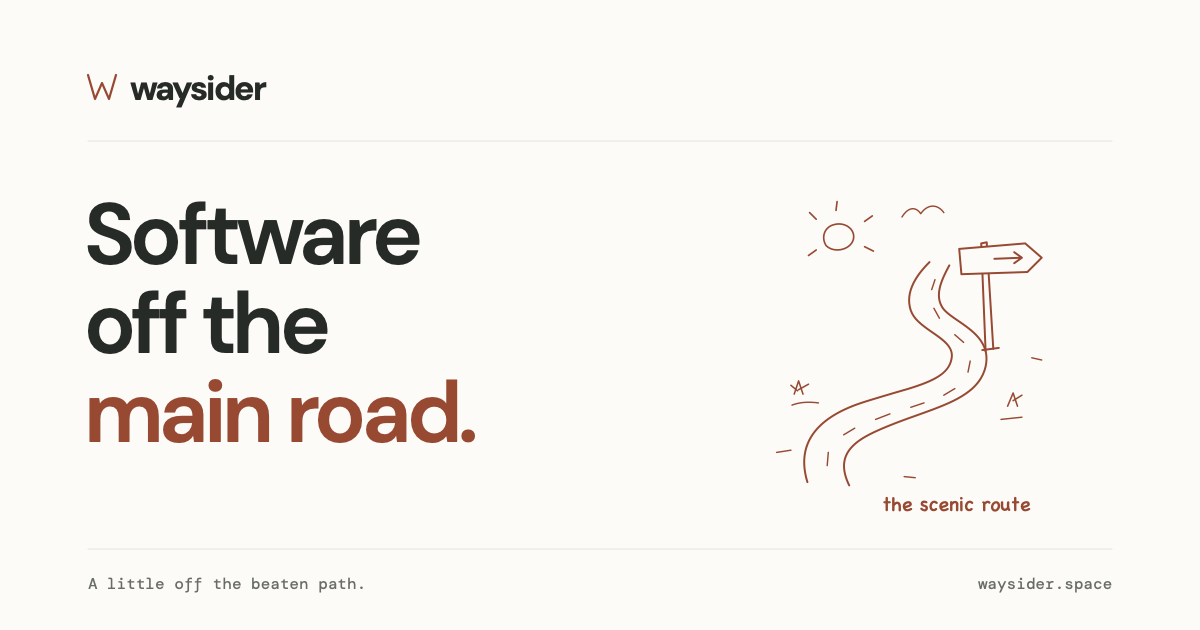
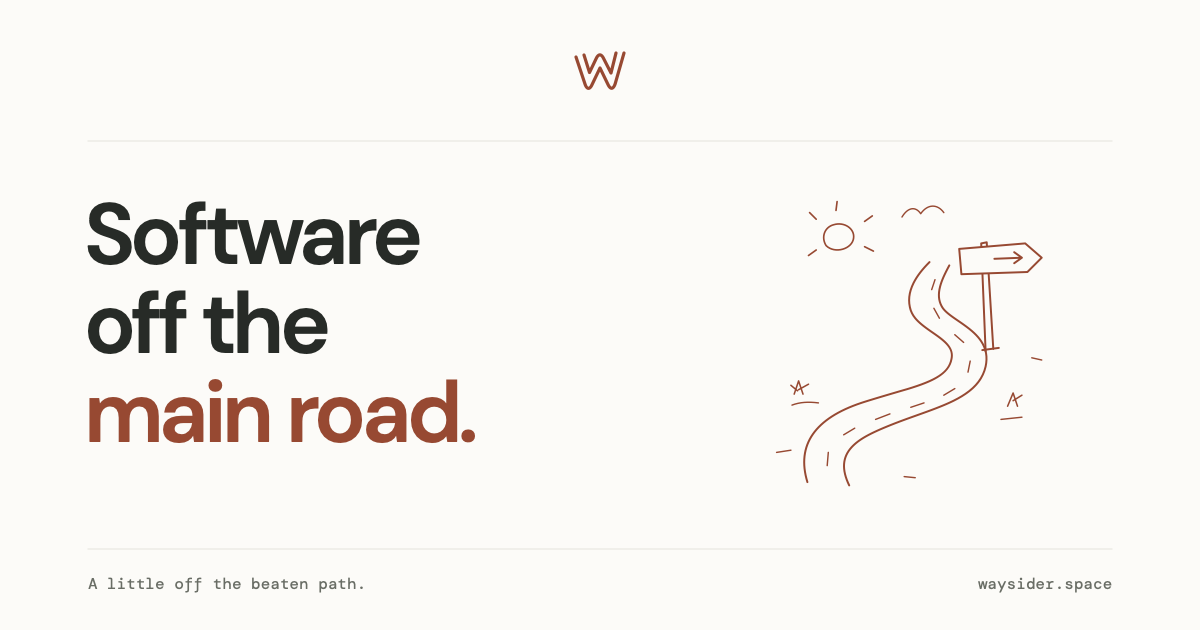
update brand mark

Changed region(s): [[0.0617, 0.1206, 0.2158, 0.181], [0.4625, 0.0603, 0.5242, 0.1508], [0.74, 0.7841, 0.8633, 0.8143]]

diff --git a/index.html b/index.html
@@ -56,20 +56,16 @@
                 min-height: 100px;
                 display: flex;
                 align-items: center;
-                justify-content: space-between;
+                justify-content: center;
                 gap: 24px;
                 border-bottom: 1px solid var(--line);
             }
             .wordmark {
                 display: inline-flex;
                 align-items: center;
-                gap: 10px;
-                font-size: 24px;
-                font-weight: 700;
-                letter-spacing: -.06em;
                 text-decoration: none;
             }
-            .brand-mark { width: 26px; height: 29px; color: var(--accent); }
+            .brand-mark { width: 48px; height: 48px; color: var(--accent); }
             .arrow { width: 15px; height: 15px; flex: none; }
 
             .hero {
@@ -128,7 +124,6 @@
             }
             @media (max-width: 420px) {
                 .page { width: calc(100% - 40px); }
-                .wordmark { font-size: 22px; }
                 .project { grid-template-columns: 1fr; position: relative; padding: 25px; }
                 .project-copy { position: relative; z-index: 1; }
                 .garden-doodle { position: absolute; width: 61px; height: 80px; right: 23px; top: 9px; }
@@ -144,10 +139,13 @@
         <div class="page">
             <header class="site-header">
                 <a class="wordmark" href="/" aria-label="Waysider home">
-                    <svg class="brand-mark" viewBox="0 0 30 32" fill="none" aria-hidden="true">
-                        <path d="m3 6 6 20 6-13 6 13 6-20" stroke="currentColor" stroke-width="1.8" stroke-linecap="round" stroke-linejoin="round" />
+                    <svg class="brand-mark" viewBox="0 0 64 64" aria-hidden="true">
+                        <path fill="#FCFBF8" d="M0 0h64v64H0z" />
+                        <g fill="none" stroke="currentColor" stroke-width="3.2" stroke-linecap="round" stroke-linejoin="round">
+                            <path d="M8 17 17 44c1.8 5.5 4.7 5.8 7 .7L32 28l8 16.5c2.6 5.5 5.4 4.7 7.2-.8L56 13" />
+                            <path d="m16 15 5.5 17.5 6.8-14.2c2.1-4.4 4.9-4.8 7.3.2L43 33l5-20" />
+                        </g>
                     </svg>
-                    <span>waysider</span>
                 </a>
             </header>
 
